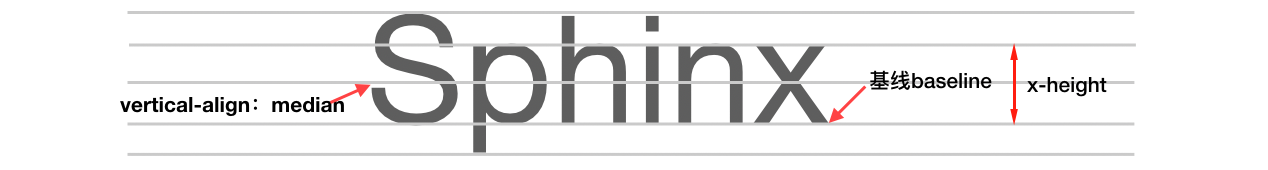
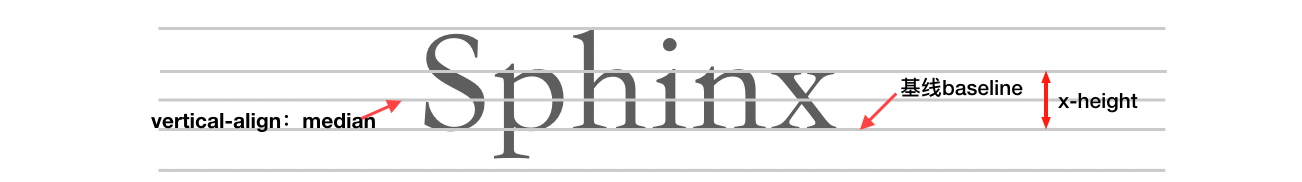
update

Changed region(s): [[0.0923, 0.0588, 0.892, 0.9706]]

diff --git a/CSS/CSS内联世界/README.md b/CSS/CSS内联世界/README.md
@@ -96,6 +96,8 @@
 
 
 
+
+
 * **字母x与CSS世界的基线** 
 
 > **基线：** 小写字母x的下边缘就是我们常说的基线，意不意外！
@@ -110,4 +112,94 @@
 >
 > 字母x与CSS世界基线间的关系如下图所示：
 >
-> ![inline_6](../images/inline_6.png)
+> ![inline_6](/Users/statssun/Documents/GitHub/WebNote/CSS/images/inline_6.png)
+>
+> 注意：上图使用字体为宋体，其x字母中间交叉点刚好是其自身高度的1/2，但有些字体设计时存在字体下沉的现象，如微软雅黑的字体下沉比较明显，字母x的交叉点会比vertical-align：median定义的位置往上一点点，大概也就1像素的样子，我们往往也察觉不到，如下图所示：
+>
+> 这就导致：文字字形的垂直中线位置普遍要比真正的行框盒子的垂直中线位置低；
+>
+> ![inline_7](/Users/statssun/Documents/GitHub/WebNote/CSS/images/inline_7.png)
+
+
+
+
+
+* **内联元素基石 line-height** 
+
+line-heigh可谓是内联元素的高度之本，本节开始前请大家掌握好前面内联盒模型和幽灵空白节点的内容，以便接下来顺畅的理解行高这个属性。
+
+> **描述：** line-height用于设置行间的距离（行高），或者说是设置多行元素的空间量，如多行文本的间距；
+>
+> **特点：** 
+>
+> 1、line-height的默认值为normal，微软雅黑的normal解析值约为1.32、宋体的解析值约为1.14；
+>
+> 2、支持数值：如line-height：1.5，数值是相对于当前字体大小计算，如font-size为16像素，则line-height值计算为1.5 * 16px = 24px，注意该属性不支持负值;
+>
+> 3、支持百分比：如line-height：150%，百分比也是相对于当前字体大小计算，150% * 16px = 24px；
+>
+> 4、支持长度值：就是带单位的值，如line-height：24px或line-height：1.5em；
+>
+> 5、以上三种属性值虽然最终计算结果都一样，但在继承细节方面存在差别：
+>
+> 若line-height选用数值1.5，则其所有子元素继承的都是1.5这个比例值，如果子元素自身设置字体大小，其行高就是按照1.5这个比例值自行计算；
+>
+> 若选用150%或24px，则所有子元素继承的是最终计算值，就比如说如果父元素line-height：150%，当前字体大小为16px，则父元素行高是24px，如果此时存在子元素字体大小为32px，但其继承的行高是24px,这会导致上下排便字体重叠到一起，推荐使用数值属性值；
+>
+> 6、行距 = line-height - font-size，line-height 与 font-size 的计算值之差(即行距)分为2半(可以理解为半行距)分别加到一个文本行内容的顶部和底部，来决定行框盒子的高度。line-height的高度作用细节正是通过行距和半行距来实现的；
+>
+> 7、对于内联非替换元素和内联替换元素混排时，它决定行框盒子的最小高度，因为替换元素的高度不受line-height的影响，另外替换元素高度还受vertical-align的影响；
+>
+> 8、对于非替换元素的纯内联元素，它决定行框盒子的最终高度，这时padding、border属性对可视高度不产生任何影响；
+>
+> 9、对于块级元素，line-height对其本身是没有任何作用的，平时改变line-height的值块级元素的高度跟着变化实际上是通过改变块级元素里面内联级别元素占据的高度实现的；
+>
+> 10、内联元素line-height具有大值属性，就是说无论内联元素line-height如何设置，最终父元素的高度都是由数值大的那个line-height决定的；
+>
+> **应用：** 
+>
+> 1、使单行内联文本垂直居中：
+>
+> ```css
+> <div><span>内联文本垂直居中</span></div>
+> div {
+>     padding: 0 20px;
+>     line-height: 32px;
+>     background-color: #ccc;
+> }
+> /*此处行高可以实现垂直居中就在于行距的上下等分机制*/
+> ```
+>
+> ![inline_8](/Users/statssun/Documents/GitHub/WebNote/CSS/images/inline_8.png)
+>
+> 2、多行文本或替换元素垂直居中：
+>
+> ```css
+> /*HTML*/
+> <div class="box">
+>     <div class="content">
+>     多行文本或替换元素的垂直居中效果，需要vertical-align帮助
+>     </div>
+> </div>
+> /*CSS*/
+> .box {
+>     line-height: 100px;
+>     background-color: #ccc;
+> }
+> .content {
+>     display: inline-block;
+>     line-height: 20px;
+>     margin: 0 20px;
+>     vertical-align: middle;
+> }
+> ```
+>
+> ![inline_9](/Users/statssun/Documents/GitHub/WebNote/CSS/images/inline_9.png)
+>
+> 该效果实现原理如下：
+>
+> 1、多行文本外面使用一个标签.content包裹，设置为inline-block，是为了重置外部.box的line-height值，并设置内部.content的line-height为正常大小，其次是使.content仍然保持内联元素特性，从而可以设置vertical-align属性；
+>
+> 2、我们都知道每个内联元素组成的行框盒子前都会有一个“幽灵空白节点”，这里.box设置的line-height就是作用在这个空白节点上面，使得在.content元素前面撑起一个高位100像素、宽度为0的内联元素;
+>
+> 3、内联元素默认都是以基线对齐的，这里对.content设置vertical-align: middle来调整多行文本的垂直居中位置，以便实现垂直居中效果；
